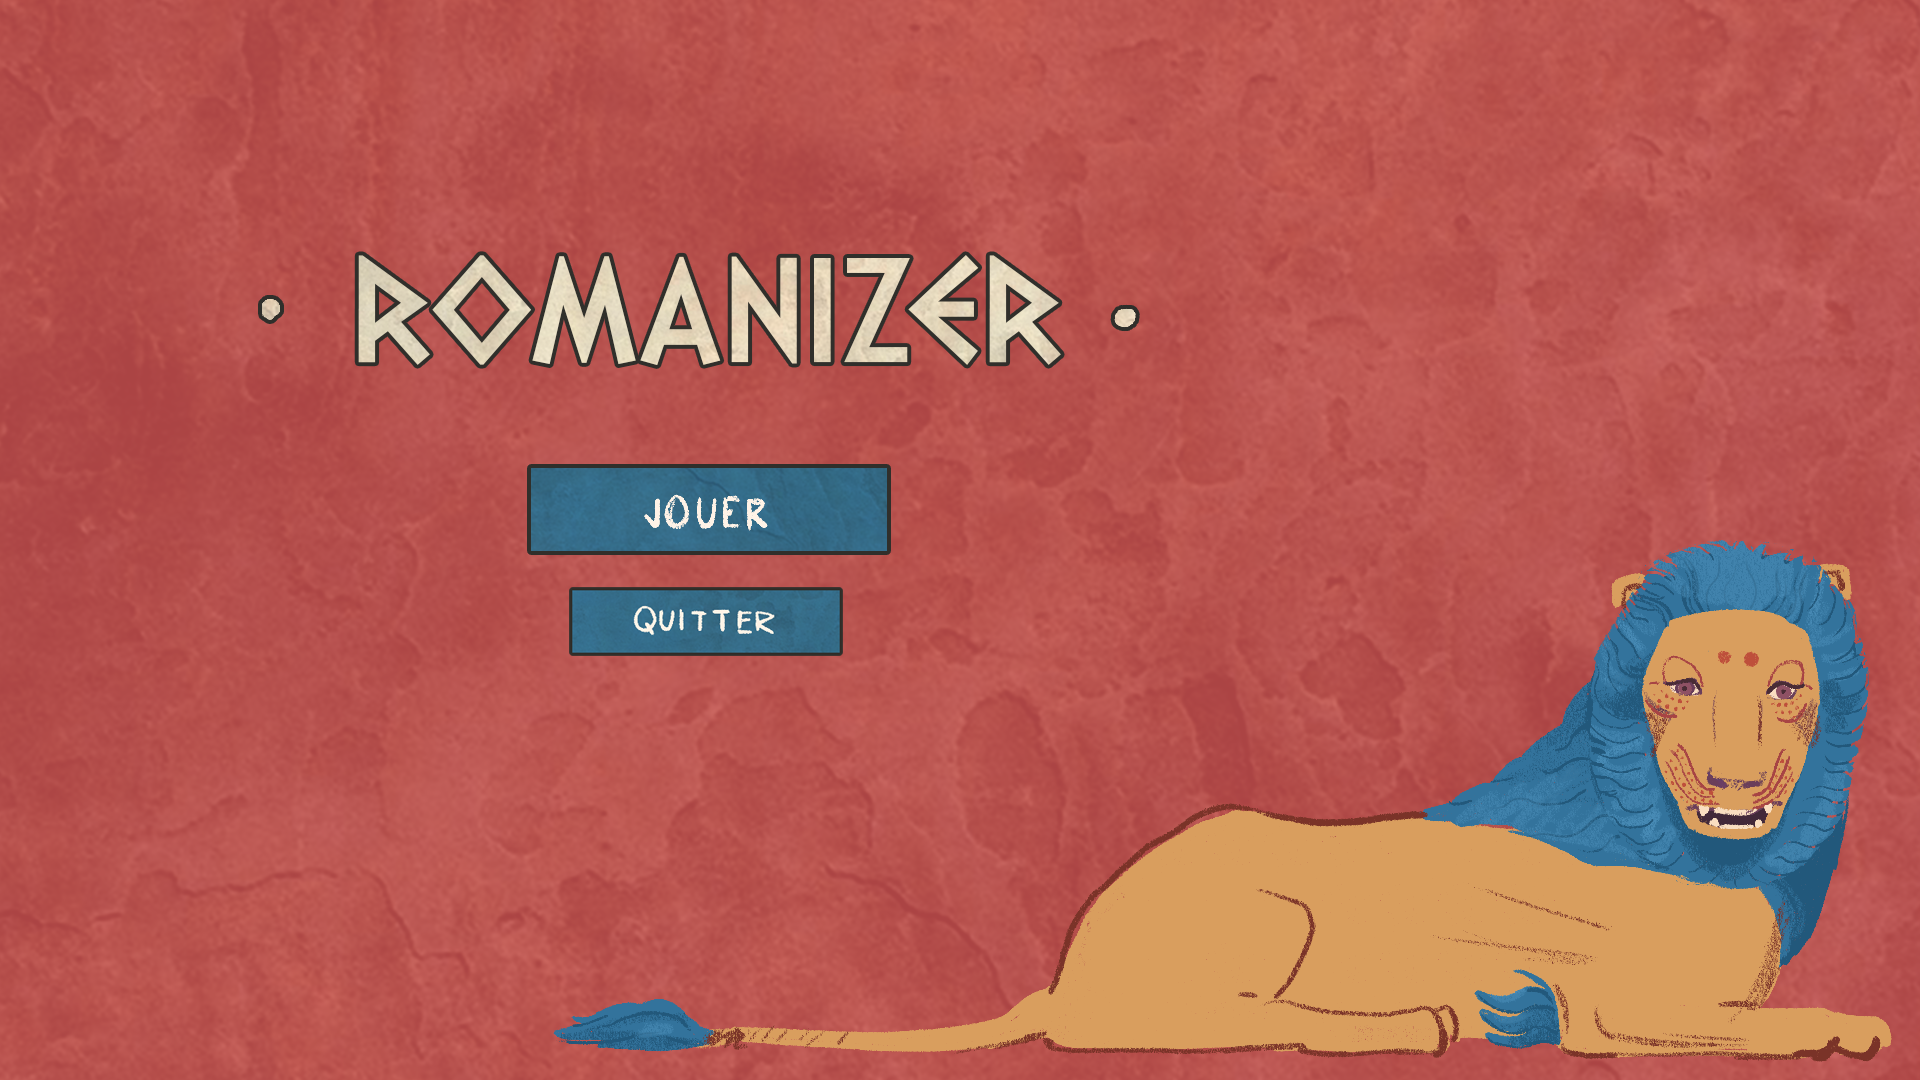
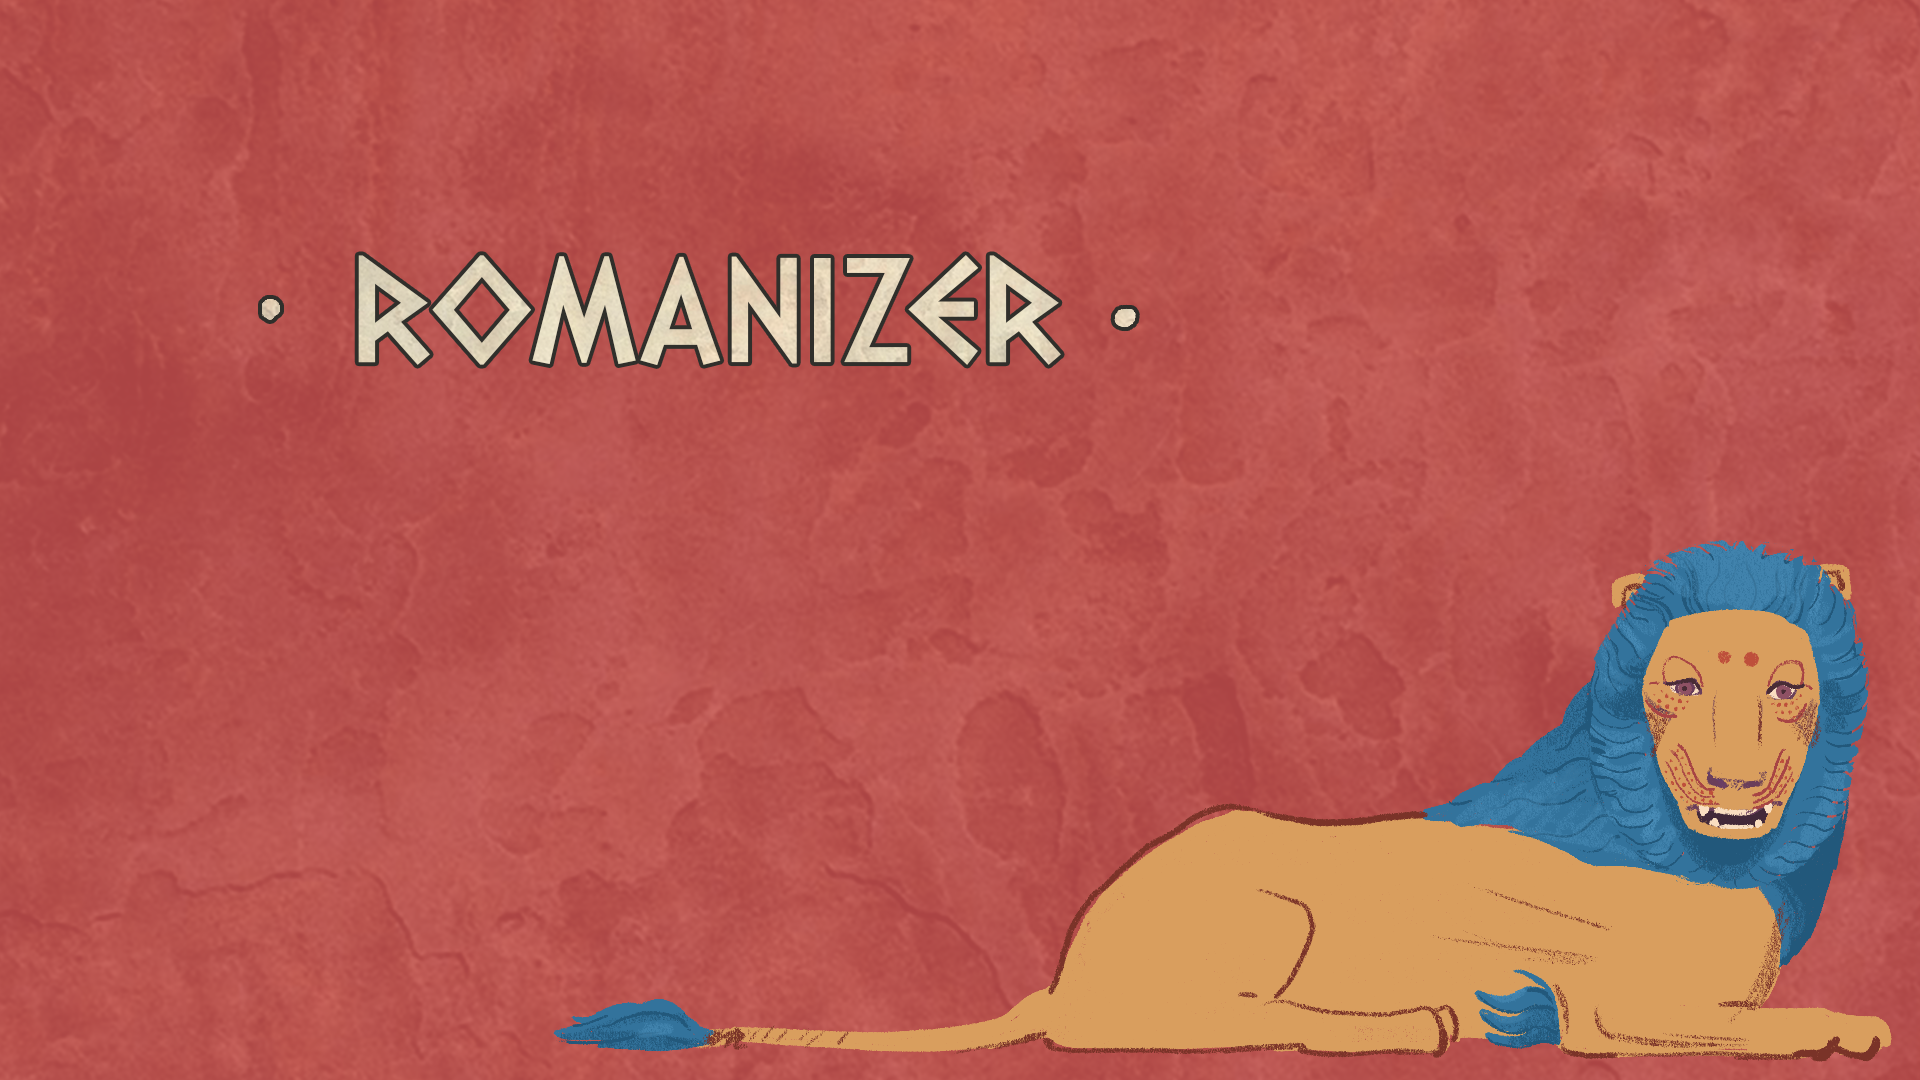
small main menu fixes

Changed region(s): [[0.25, 0.4278, 0.4688, 0.6111]]

diff --git a/Cuivre/Game1.cs b/Cuivre/Game1.cs
@@ -80,7 +80,8 @@ namespace Cuivre
             List<string> textureNames = new List<string>() { "bouton_help", "bulle_poete", "card_bienfaits", "card_miracle_verso", "card_miracle", "card_oracle",
                                                              "card_poetes_verso", "card_poetes", "fond", "stele_evenements", "baton_frise", "frise_cartouche", "frise_ornements_cotes",
                                                              "icone_evenement", "bouton_jouer", "bouton_menu", "bouton_quitter", "bouton_rejouer", "fabriquer_icones",
-                                                             "gladiateurs", "nourriture", "processions religieuses", "theatre", "menu_debut", "menu_victoire", "tutorial_layout" };
+                                                             "gladiateurs", "nourriture", "processions religieuses", "theatre", "menu_debut", "menu_victoire", "tutorial_layout",
+                                                             "menu_DEFAITE" };
             List<string> temp = new List<string>() { "juvenal", "lucrece", "martial", "ovide", "virgile" };
             foreach (string name in temp)
             {

diff --git a/Cuivre/Code/Screens/MenuScreen.cs b/Cuivre/Code/Screens/MenuScreen.cs
@@ -31,11 +31,11 @@ namespace Cuivre.Code.Screens
             spriteBatch.Draw(Game1.Textures["menu_debut"], new Rectangle(0, 0, Game1.WIDTH, Game1.HEIGHT), Color.White);
 
             Rectangle newR = new Rectangle(newRect.Location, newRect.Size);
-            if (hoverNew) newR = new Rectangle(newRect.Location + new Point(-5, -5), newRect.Size + new Point(10, 10));
+            if (hoverNew) newR = new Rectangle(newRect.Location + new Point(-10, -10), newRect.Size + new Point(20, 20));
             spriteBatch.Draw(Game1.Textures["bouton_jouer"], newR, Color.White);
 
             Rectangle quit = new Rectangle(quitRect.Location, quitRect.Size);
-            if (hoverQuit) quit = new Rectangle(quitRect.Location + new Point(-5, -5), quitRect.Size + new Point(10, 10));
+            if (hoverQuit) quit = new Rectangle(quitRect.Location + new Point(-10, -10), quitRect.Size + new Point(20, 20));
             spriteBatch.Draw(Game1.Textures["bouton_quitter"], quit, Color.White);
         }
 
